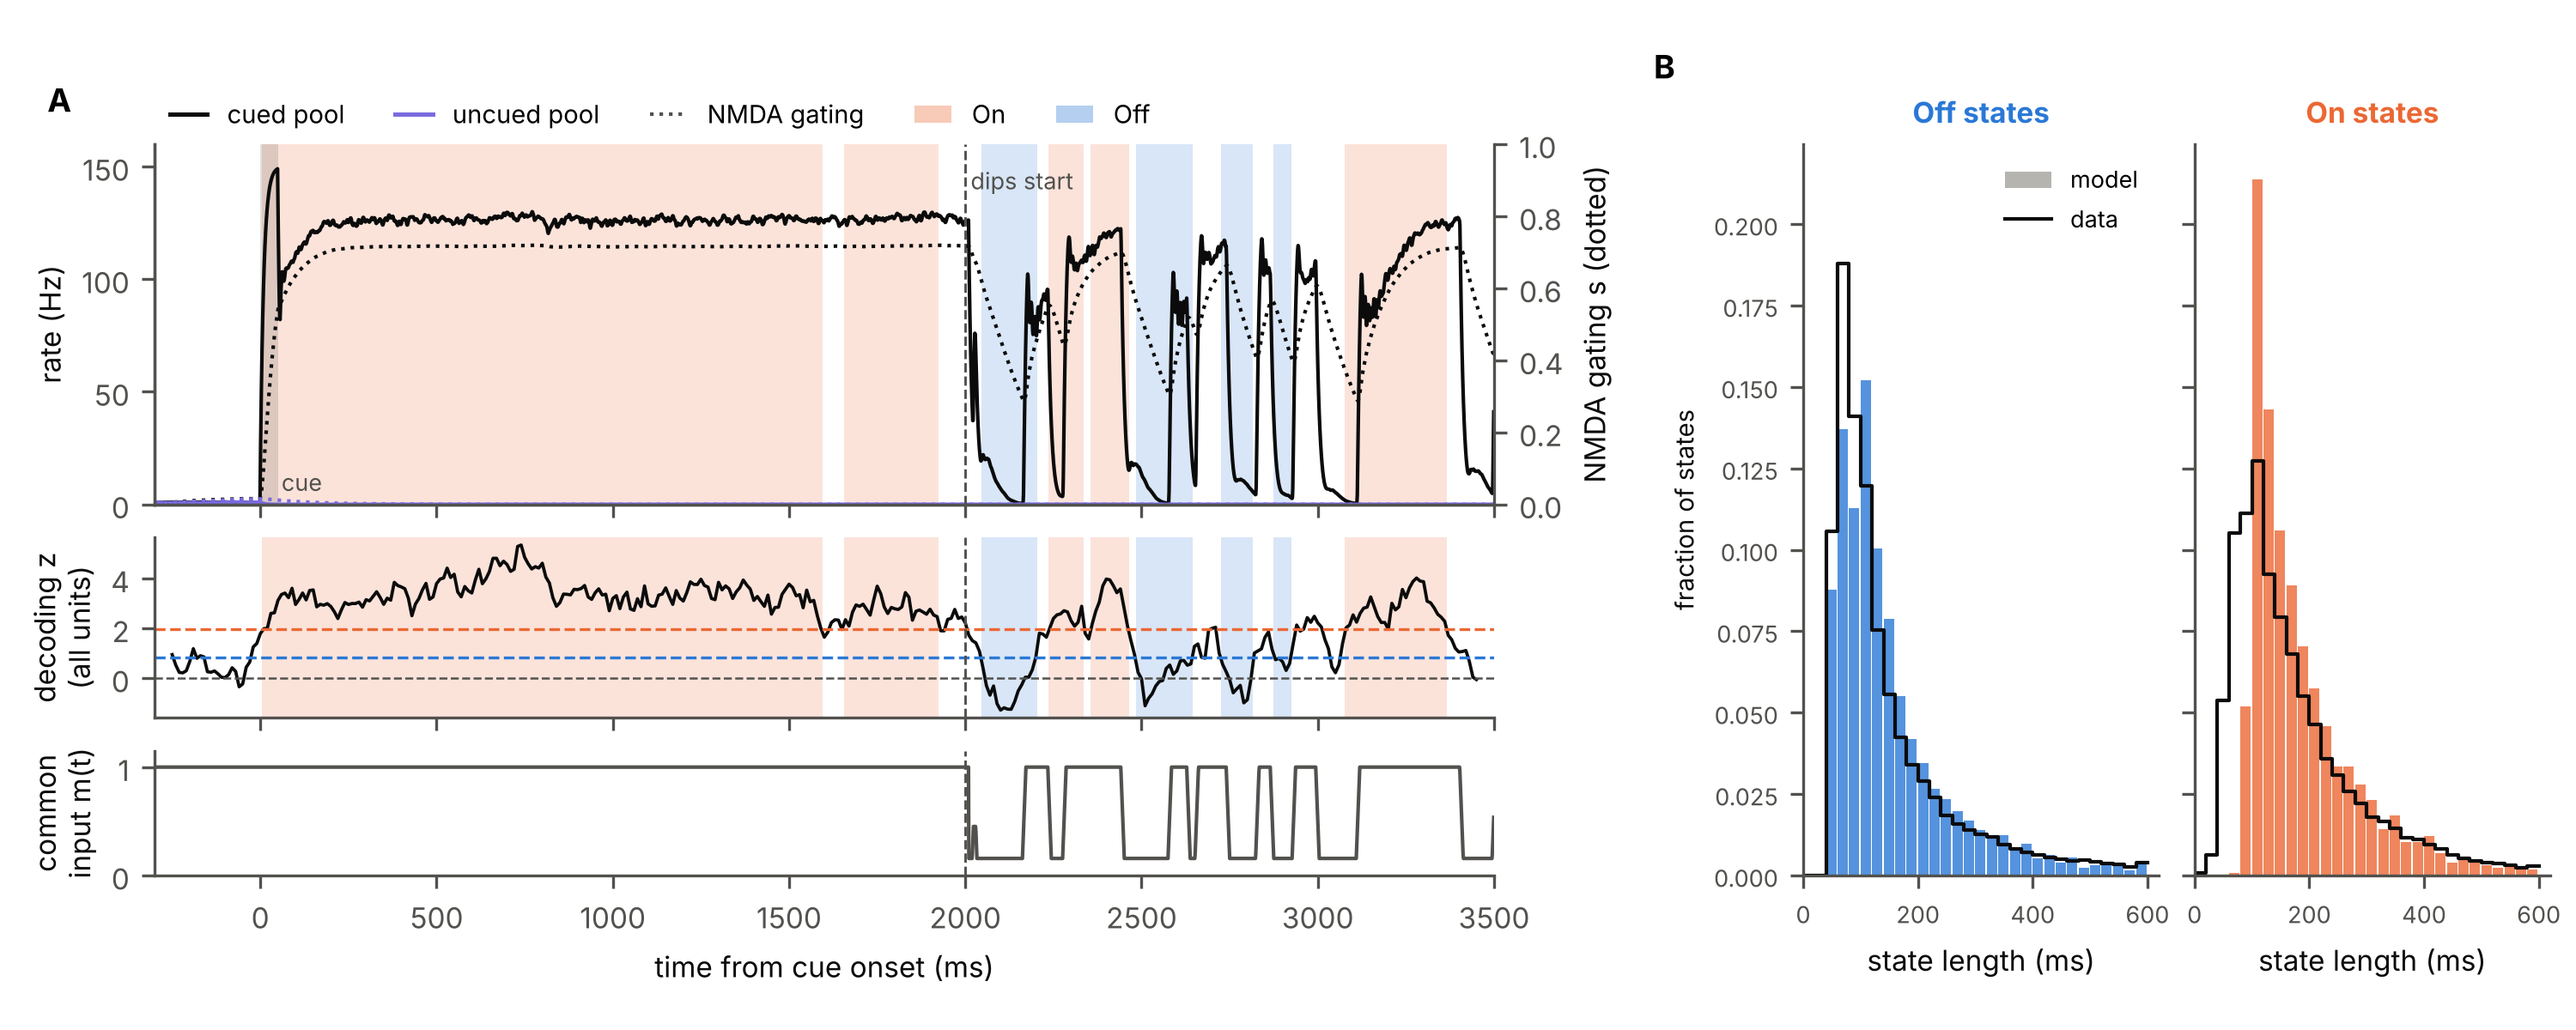
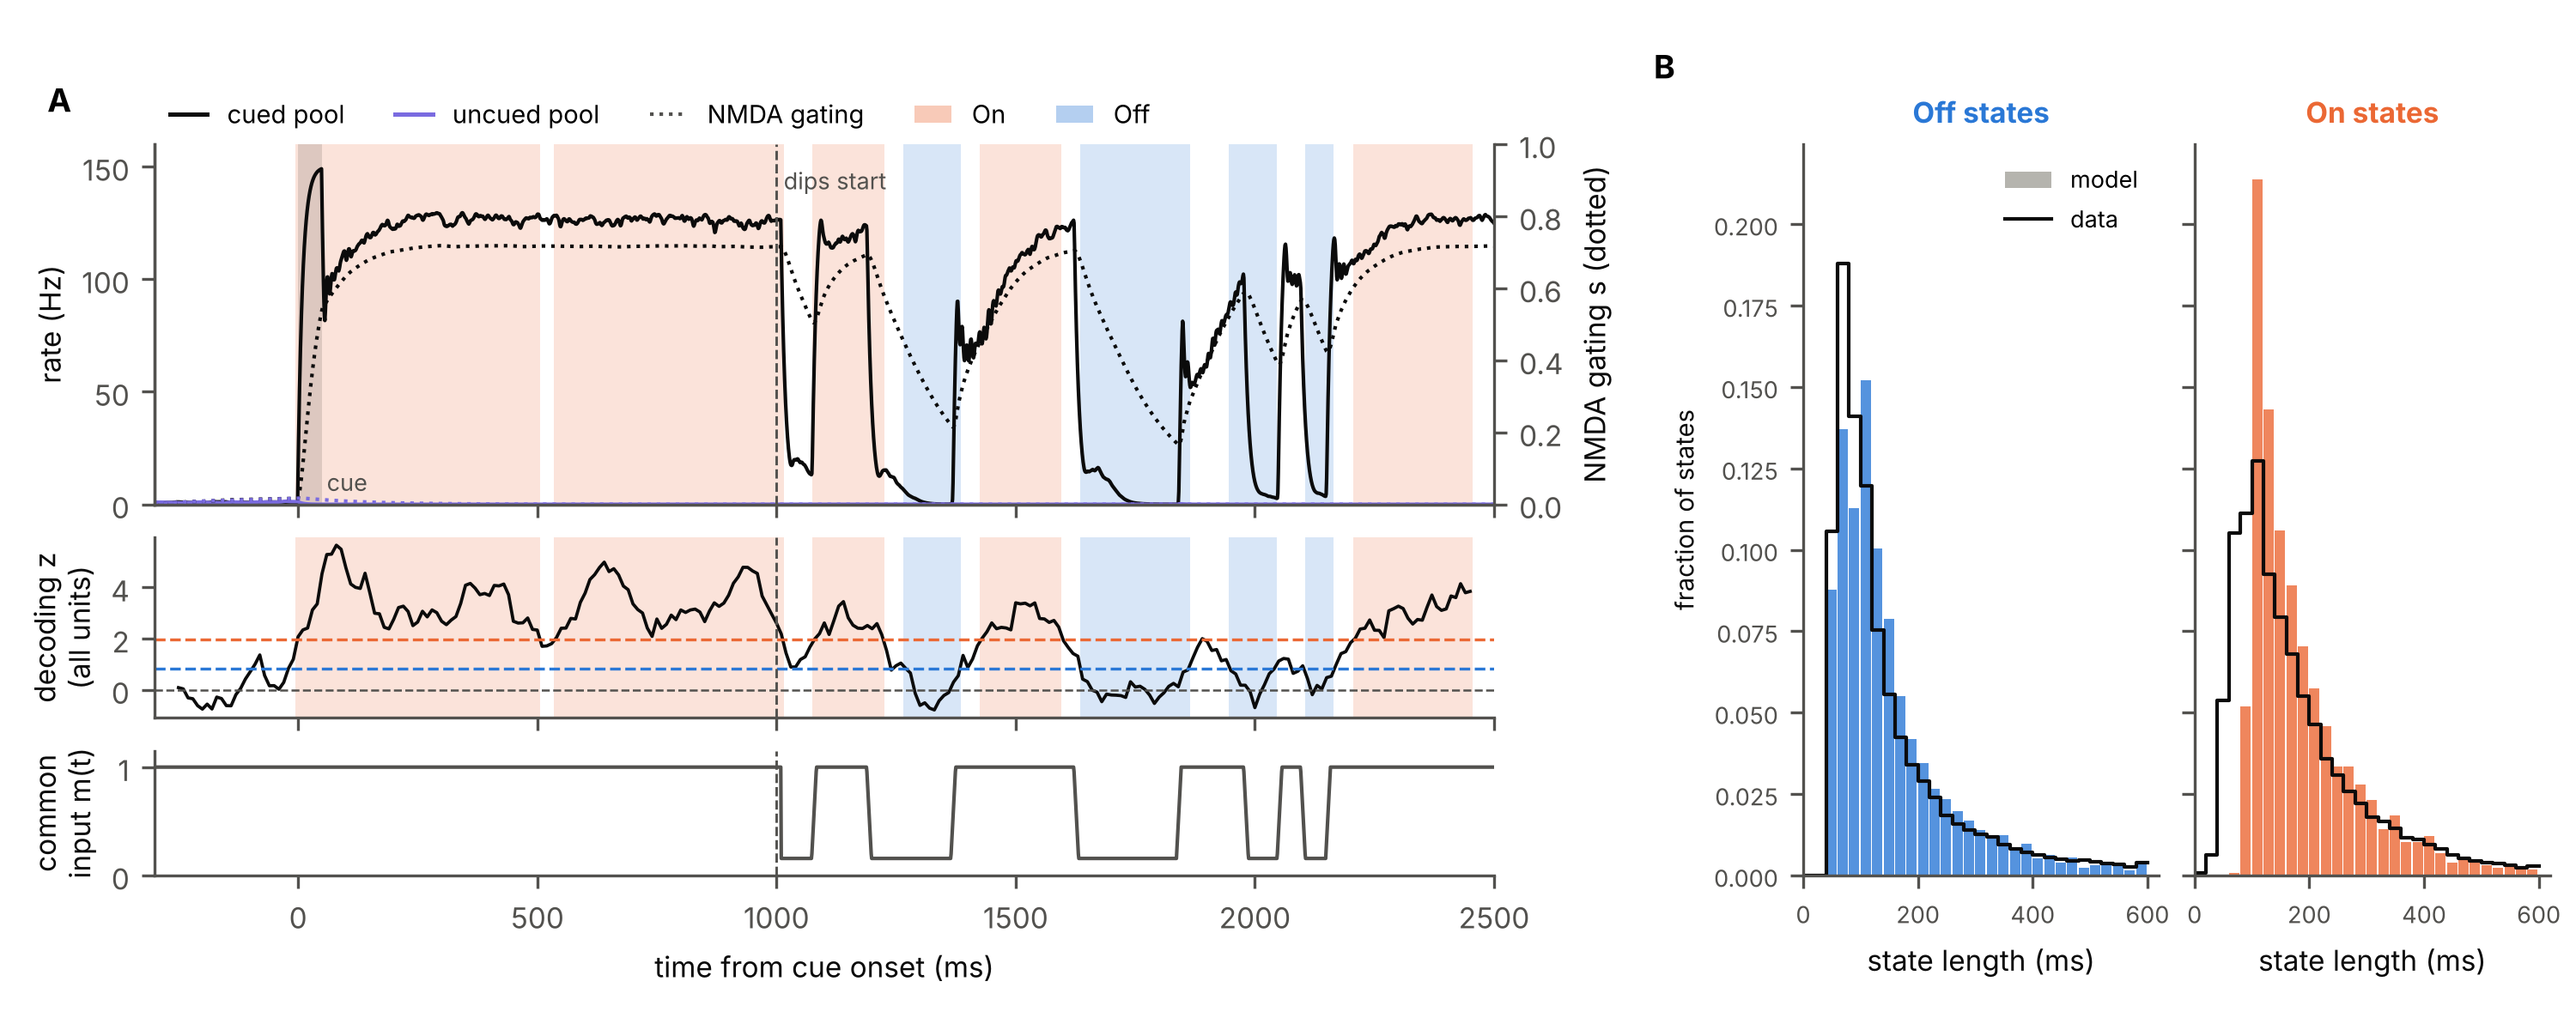
Figure 1: 1 s of delay before the dips; simpler example-trial criteria
Claude-Session: https://claude.ai/code/session_01DWA8oLxpZgubPZ4A6kb3Lh

diff --git a/paper_model/make_figures.py b/paper_model/make_figures.py
@@ -1,6 +1,6 @@
 """Paper figures of the best-fit model.
 
-Figure 1: A, an example trial: 2 s of delay with a constant common input, then dips switched on (pool rates
+Figure 1: A, an example trial: 1 s of delay with a constant common input, then dips switched on (pool rates
           and NMDA gating, decoding z from all units, with On/Off labels; common input below). B, right of A: all-unit Off and On
           length histograms (counts, states 0-1,400 ms after cue onset, as in the fit).
 Figure 2: On/Off statistics of every unit set, model vs data.
@@ -27,7 +27,7 @@ plt.rcParams.update({'figure.facecolor': 'white', 'axes.facecolor': 'white', 'sa
 
 
 FIG1_SET = ('all', 'session count')   # unit set whose read-out Figure 1 shows
-QUIET, DIPS = 2000, 1500      # example trial: delay without dips (ms after cue onset), then with dips
+QUIET, DIPS = 1000, 1500      # example trial: delay without dips (ms after cue onset), then with dips
 
 
 def example_trials(gain, n=300, seed=11):
@@ -53,18 +53,19 @@ def pick_trial(sim, tz, state):
     with typical lengths."""
     ok = M.memory_correct(sim)
     quiet = (tz >= 300) & (tz < QUIET)
-    best, score = 0, np.inf
+    best, score = None, np.inf
     for k in range(len(ok)):
         st = state[k]
         off = [(b - a) * R.STEP for a, b in R.runs(st == -1) if tz[a] >= QUIET]
         on = [(b - a) * R.STEP for a, b in R.runs(st == 1) if tz[a] >= QUIET]
-        strong = sim['rA'][k][-300:].max() > 80 and sim['sA'][k][-1] > 0.4 and min(
-            sim['sA'][k][int(sim['t_cue'] + QUIET):].min(), 1) > 0.25     # memory clearly held through the dips
+        strong = sim['rA'][k][-300:].max() > 80 and sim['sA'][k][-1] > 0.4     # cued pool clearly active at the end
         if not ok[k] or not strong or (st[quiet] == -1).any() or not 3 <= len(off) <= 5 or len(on) < 2 or max(off) > 300:
             continue
         sc = abs(np.median(off) - 110) / 30 + abs(np.median(on) - 160) / 40 + (st[quiet] != 1).mean() * 5
         if sc < score:
             best, score = k, sc
+    if best is None:
+        raise RuntimeError('no example trial meets the criteria')
     return best
 
 

diff --git a/paper_model/README.md b/paper_model/README.md
@@ -10,7 +10,7 @@ when the input returns, and the pool with more residual NMDA wins. The model is 
 | `model.py` | equations, fixed parameters (`FIXED`), best fit (`FIT`), fit bounds, simulation, memory check |
 | `readout.py` | z = gain × (cued − uncued rate, 100 ms windows) + measured noise; gain anchored to the data's μ_on per unit set; On/Off labelling; statistics per unit set |
 | `fit.py` | CMA-ES fit of `FIT` (loss: six On/Off statistics and the On/Off length histograms of each of 7 unit sets, memory ≥ 98% on the fit's trials) |
-| `make_figures.py` | Figure 1 (example trial: 2 s delay without dips, then dips; all-unit decoding and length histograms, model vs data) and Figure 2 (On/Off statistics of every unit set, model vs data), `model_stats.json` |
+| `make_figures.py` | Figure 1 (example trial: 1 s delay without dips, then dips; all-unit decoding and length histograms, model vs data) and Figure 2 (On/Off statistics of every unit set, model vs data), `model_stats.json` |
 | `data/` | data read-out table and histograms (λ = 10,000), with the data agent's note |
 
 Fitted (to the On/Off statistics and length histograms of all 7 unit sets): τ_N 132 ms, w_s 1.61, dips 10.2/s,
